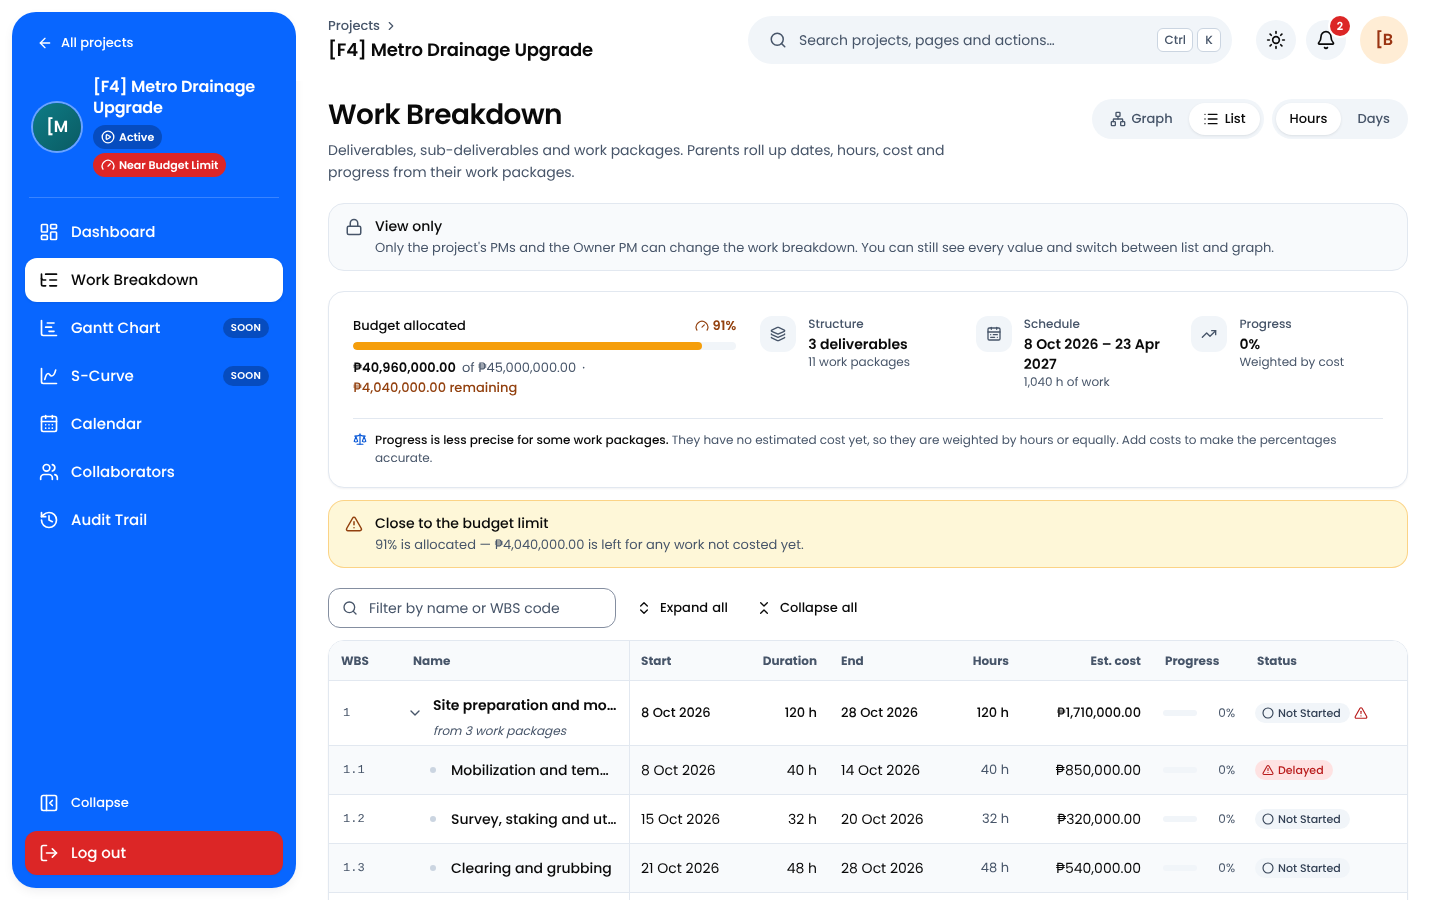
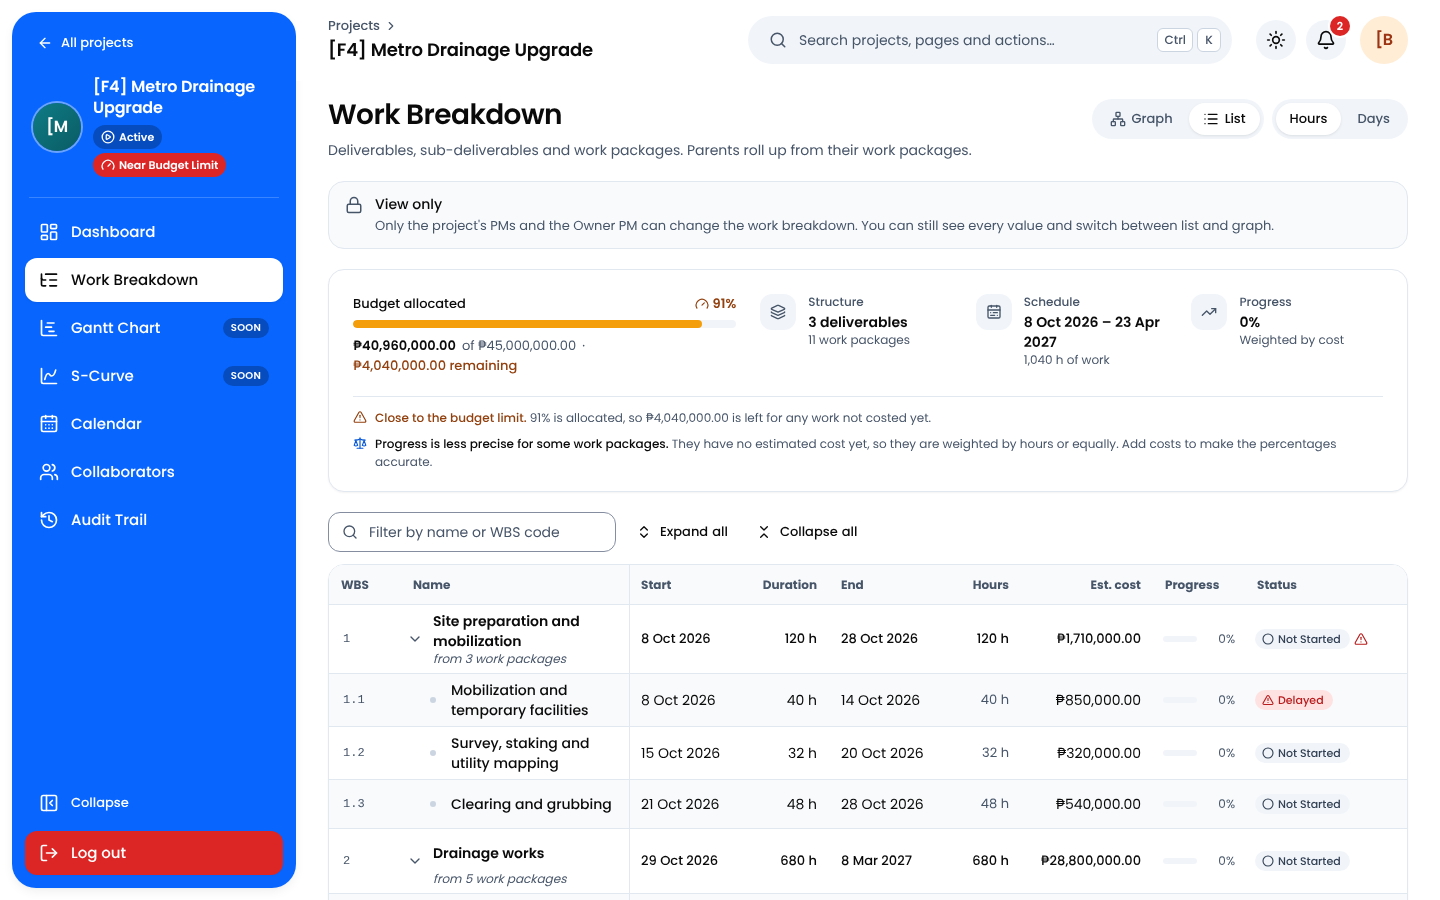
wip(wbs): work-package labels for level-2 leaves, floating inline errors
Claude-Session: https://claude.ai/code/session_01DGeuhvciUu1fM9mH6rpkC6

diff --git a/e2e/f4-zz-tmp.spec.ts b/e2e/f4-zz-tmp.spec.ts
@@ -1,0 +1,49 @@
+import { expect, test } from "@playwright/test";
+import { loginAs } from "./helpers/auth";
+import { F4_OWNER, ensureF4Tenant } from "./f4-tenant";
+const OUT = "/tmp/claude-0/-home-user/321de8e6-1b80-50a5-8310-7294642e121d/scratchpad/";
+for (const scheme of ["light", "dark"] as const) {
+  test(`states ${scheme}`, async ({ browser }) => {
+    const t = await ensureF4Tenant();
+    const context = await browser.newContext({ viewport: { width: 1440, height: 900 }, colorScheme: scheme });
+    await loginAs(context, F4_OWNER);
+    const page = await context.newPage();
+    await page.goto(`/projects/${t.showcaseId}/wbs`);
+    await page.evaluate(() => localStorage.setItem("civpms.wbs.view", "list"));
+    await page.reload();
+    const row = (c: string) => page.locator(`[data-testid=wbs-row][data-wbs-code="${c}"]`);
+    await row("1.1").getByRole("button", { name: /^Actions for/ }).click();
+    await page.screenshot({ path: OUT + `s-menu-${scheme}.png` });
+    await page.getByRole("menuitem", { name: /Add sub-deliverable|Add work package/ }).first().click();
+    await page.waitForTimeout(400);
+    await page.screenshot({ path: OUT + `s-dialog-${scheme}.png` });
+    await page.keyboard.press("Escape");
+    await row("2").getByRole("button", { name: /^Actions for/ }).click();
+    await page.getByRole("menuitem", { name: /Delete deliverable/ }).click();
+    await page.waitForTimeout(400);
+    await page.screenshot({ path: OUT + `s-delete-${scheme}.png` });
+    await page.getByRole("alertdialog").getByRole("button", { name: "Cancel" }).click();
+    await row("1.2").getByRole("button", { name: /^Duration of/ }).click();
+    await page.keyboard.type("abc");
+    await page.keyboard.press("Enter");
+    await page.waitForTimeout(300);
+    await page.screenshot({ path: OUT + `s-inline-${scheme}.png` });
+    await page.keyboard.press("Escape");
+    await page.getByRole("button", { name: /Recently deleted/ }).click();
+    await page.waitForTimeout(400);
+    await page.screenshot({ path: OUT + `s-trash-${scheme}.png` });
+    await page.keyboard.press("Escape");
+    await page.goto(`/projects/${t.showcaseId}/calendar`);
+    await page.locator('[data-testid=calendar-month] button[data-date="2026-10-21"]').click({ button: "right" });
+    await page.waitForTimeout(300);
+    await page.screenshot({ path: OUT + `s-day-${scheme}.png` });
+    await page.getByTestId("calendar-day-panel").getByRole("button", { name: "Mark as non-working day" }).click();
+    await page.getByRole("button", { name: "Save changes" }).click();
+    await expect(page.getByRole("alertdialog")).toBeVisible();
+    await page.waitForTimeout(400);
+    await page.screenshot({ path: OUT + `s-moves-${scheme}.png` });
+    await page.getByRole("alertdialog").getByRole("button", { name: "Cancel" }).click();
+    await page.getByRole("button", { name: "Discard" }).click();
+    await context.close();
+  });
+}

diff --git a/src/components/wbs/wbs-table.tsx b/src/components/wbs/wbs-table.tsx
@@ -40,7 +40,7 @@ import {
 } from "@/lib/domain";
 import { cn } from "@/lib/utils";
 import { CostCell, DateCell, DurationCell, TextCell } from "./inline-edit";
-import { getProjection, type Projection } from "./model";
+import { getProjection, nodeLabel, type Projection } from "./model";
 import { RowActions } from "./row-actions";
 import type { RollupMap, WbsNode } from "./types";
 import { useWbs } from "./wbs-context";
@@ -164,18 +164,19 @@ export function WbsTable({ roots, rollups, collapsed, filter, busyIds, onMove }:
         data-testid="wbs-table"
         className="relative w-full overflow-auto rounded-lg border border-border bg-surface shadow-xs sm:max-h-[calc(100dvh-12rem)] sm:min-h-64"
       >
-        <table className="w-full min-w-[72rem] table-fixed border-separate border-spacing-0 text-sm lg:min-w-[67.5rem]">
+        <table className="w-full min-w-[69.75rem] table-fixed border-separate border-spacing-0 text-sm sm:min-w-[72rem] lg:min-w-[67.5rem]">
           <caption className="sr-only">
             Work breakdown: deliverables, sub-deliverables and work packages with dates, duration, hours, cost and
             progress. Parents roll up from their work packages.
           </caption>
           <colgroup>
             <col className="w-[4.5rem]" />
-            <col />
+            {/* Phones: WBS + Name fill the screen (the summary line under the name shows the rest). */}
+            <col className="w-[16.5rem] sm:w-auto" />
             <col className="w-[7rem]" />
-            <col className="w-[5.5rem]" />
+            <col className="w-[6rem]" />
             <col className="w-[7rem]" />
-            <col className="w-[5rem]" />
+            <col className="w-[4.5rem]" />
             <col className="w-[8.25rem]" />
             <col className="w-[5.75rem]" />
             <col className="w-[7.5rem]" />
@@ -305,7 +306,7 @@ const WbsRow = memo(function WbsRow({
       : null;
   const code = `${node.wbsCode} ${node.name}`;
   const derivedDelayed = isLeaf && r?.hasDelayed && node.status !== "delayed";
-  const levelText = isLeaf && node.level > 1 ? "Work package" : levelLabel(node.level);
+  const levelText = nodeLabel(node);
   // Phones see only the first columns without scrolling, so repeat the key values under the name.
   const mobileSummary = r
     ? [
@@ -410,7 +411,7 @@ const WbsRow = memo(function WbsRow({
               </span>
             ) : null}
             {mobileSummary ? (
-              <span className="truncate text-xs leading-4 text-muted-foreground tabular-nums sm:hidden">
+              <span className="text-xs leading-4 text-pretty text-muted-foreground tabular-nums sm:hidden">
                 {mobileSummary}
               </span>
             ) : null}

diff --git a/src/components/wbs/inline-edit.tsx b/src/components/wbs/inline-edit.tsx
@@ -45,9 +45,17 @@ function CellButton({ label, children, align = "left", disabled, onOpen, classNa
   );
 }
 
-function ErrorText({ id, children }: { id: string; children: React.ReactNode }) {
+/** Floats under the editor so a long message never squeezes the table column. */
+function ErrorText({ id, align = "left", children }: { id: string; align?: "left" | "right"; children: React.ReactNode }) {
   return (
-    <p id={id} role="alert" className="mt-1 max-w-64 text-left text-xs leading-4 font-medium whitespace-normal text-danger-text">
+    <p
+      id={id}
+      role="alert"
+      className={cn(
+        "absolute top-full z-30 mt-1 w-60 rounded-md border border-danger/30 bg-surface px-2.5 py-1.5 text-left text-xs leading-4 font-medium whitespace-normal text-danger-text shadow-popover",
+        align === "right" ? "right-0" : "left-0",
+      )}
+    >
       {children}
     </p>
   );
@@ -122,7 +130,7 @@ export function TextCell({
   return (
     <div ref={wrapperRef} className="min-w-0 flex-1">
       {editing ? (
-        <div>
+        <div className="relative">
           <Input
             autoFocus
             defaultValue={value}
@@ -191,7 +199,7 @@ export function DateCell({
   return (
     <div ref={wrapperRef}>
       {editing ? (
-        <div>
+        <div className="relative">
           <DateInput
             autoFocus
             value={draft}
@@ -283,7 +291,7 @@ export function DurationCell({
   return (
     <div ref={wrapperRef} className="flex justify-end">
       {editing ? (
-        <div className="flex flex-col items-end">
+        <div className="relative flex flex-col items-end">
           <Input
             autoFocus
             defaultValue={initial}
@@ -292,7 +300,7 @@ export function DurationCell({
             invalid={Boolean(error)}
             aria-describedby={error ? errorId : undefined}
             trailing={<span className="text-xs font-medium text-muted-foreground">{unit === "days" ? "d" : "h"}</span>}
-            wrapperClassName="w-24"
+            wrapperClassName="w-[5.25rem]"
             className="h-9 pr-8 text-right tabular-nums sm:h-9"
             onFocus={(event) => event.currentTarget.select()}
             onKeyDown={(event) => {
@@ -308,7 +316,7 @@ export function DurationCell({
             }}
             onBlur={(event) => commit(event.currentTarget.value, false)}
           />
-          {error ? <ErrorText id={errorId}>{error}</ErrorText> : null}
+          {error ? <ErrorText id={errorId} align="right">{error}</ErrorText> : null}
         </div>
       ) : (
         <CellButton label={label} disabled={disabled} onOpen={open} align="right">

diff --git a/src/components/wbs/activity-dialog.tsx b/src/components/wbs/activity-dialog.tsx
@@ -25,16 +25,16 @@ import {
   formatDate,
   formatDuration,
   formatPeso,
-  levelLabel,
   parseDurationInput,
   type DurationUnit,
 } from "@/lib/domain";
+import { nodeLabel } from "./model";
 import { Notice } from "./notice";
 import type { WbsNode } from "./types";
 import type { CreateValues } from "./use-wbs-controller";
 
 export type ActivityDialogMode =
-  | { kind: "create"; parent: WbsNode | null; index?: number | null }
+  | { kind: "create"; parent: WbsNode | null; index?: number | null; /** "Work package" when adding next to one. */ label?: string }
   | { kind: "rename"; node: WbsNode };
 
 export type ActivityDialogProps = {
@@ -78,9 +78,9 @@ function modeKey(mode: ActivityDialogMode): string {
 }
 
 function dialogTitle(mode: ActivityDialogMode): string {
-  if (mode.kind === "rename") return `Rename ${levelLabel(mode.node.level).toLowerCase()}`;
+  if (mode.kind === "rename") return `Rename ${nodeLabel(mode.node).toLowerCase()}`;
   if (!mode.parent) return "Add deliverable";
-  return `Add ${(childLevelLabel(mode.parent.level) ?? "work package").toLowerCase()}`;
+  return `Add ${(mode.label ?? childLevelLabel(mode.parent.level) ?? "work package").toLowerCase()}`;
 }
 
 function dialogDescription(mode: ActivityDialogMode): string {
@@ -101,7 +101,9 @@ function ActivityForm({
   const isRename = mode.kind === "rename";
   const parent = mode.kind === "create" ? mode.parent : null;
   const parentHasValues = parent ? hasOwnValues(parent) : false;
-  const childLabel = parent ? (childLevelLabel(parent.level) ?? "Work package") : "Deliverable";
+  const childLabel = parent
+    ? ((mode.kind === "create" ? mode.label : undefined) ?? childLevelLabel(parent.level) ?? "Work package")
+    : "Deliverable";
 
   const [name, setName] = useState(isRename ? mode.node.name : "");
   // Empty by default so an item without a schedule doesn't get a stray start date; a duration

diff --git a/src/components/wbs/use-wbs-controller.ts b/src/components/wbs/use-wbs-controller.ts
@@ -13,7 +13,6 @@ import {
   buildTree,
   describeDeleteImpact,
   formatPeso,
-  levelLabel,
   pluralize,
   projectRollup,
   type CalendarIndex,
@@ -27,7 +26,7 @@ import {
   updateActivity,
   type UpdateActivityInput,
 } from "@/server/actions/wbs";
-import { applyMove, indexAmongSiblings, resolveLeafSchedule, type SchedulePatch } from "./model";
+import { applyMove, indexAmongSiblings, nodeLabel, resolveLeafSchedule, type SchedulePatch } from "./model";
 import type { WbsActivity, WbsNode, WbsProjectInfo } from "./types";
 
 export type ActivityPatch = NonNullable<UpdateActivityInput["patch"]>;
@@ -207,7 +206,7 @@ export function useWbsController({
           : prev;
         return applyMove([...withoutParentValues, activity], activity.id, activity.parentId, values.index ?? null);
       });
-      toast.success(`${levelLabel(activity.level)} added`, {
+      toast.success(`${nodeLabel({ level: activity.level, children: [] })} added`, {
         description: result.data.carried
           ? `${activity.wbsCode} ${activity.name} now carries the cost, hours and dates.`
           : `${activity.wbsCode} ${activity.name}`,
@@ -272,7 +271,7 @@ export function useWbsController({
   const remove = useCallback(
     async (node: WbsNode) => {
       const impact = describeDeleteImpact(node);
-      const label = levelLabel(node.level).toLowerCase();
+      const label = nodeLabel(node).toLowerCase();
       const ok = await confirm({
         title: `Delete "${node.wbsCode} ${node.name}"?`,
         description: `${impact}. You can restore it from "Recently deleted" for 30 days.`,

diff --git a/src/components/wbs/row-actions.tsx b/src/components/wbs/row-actions.tsx
@@ -19,7 +19,8 @@ import {
   DropdownMenuTrigger,
   IconButton,
 } from "@/components/ui";
-import { childLevelLabel, levelLabel } from "@/lib/domain";
+import { childLevelLabel } from "@/lib/domain";
+import { nodeLabel } from "./model";
 import { cn } from "@/lib/utils";
 import { useWbs, type MoveCommand } from "./wbs-context";
 import type { WbsNode } from "./types";
@@ -36,7 +37,7 @@ export function RowActions({ node, className, size = "sm" }: { node: WbsNode; cl
   const wbs = useWbs();
   if (!wbs.canEdit) return null;
   const childLabel = childLevelLabel(node.level);
-  const ownLabel = levelLabel(node.level);
+  const ownLabel = nodeLabel(node);
   const availability = wbs.moveAvailability(node);
 
   return (
@@ -80,7 +81,7 @@ export function RowActions({ node, className, size = "sm" }: { node: WbsNode; cl
               {item.icon}
               <span className="flex min-w-0 flex-col">
                 <span>{item.label}</span>
-                {!state.ok ? <span className="truncate text-xs text-muted-foreground">{state.reason}</span> : null}
+                {!state.ok ? <span className="text-xs text-pretty text-muted-foreground">{state.reason}</span> : null}
               </span>
             </DropdownMenuItem>
           );

diff --git a/src/components/wbs/model.test.ts b/src/components/wbs/model.test.ts
@@ -1,6 +1,6 @@
 import { describe, expect, it } from "vitest";
 import { createCalendarIndex, DEFAULT_WORKING_CALENDAR } from "@/lib/domain";
-import { applyMove, buildSampleStructure, getProjection, indexAmongSiblings, resolveLeafSchedule } from "./model";
+import { applyMove, buildSampleStructure, getProjection, indexAmongSiblings, nodeLabel, resolveLeafSchedule } from "./model";
 
 const index = createCalendarIndex({ ...DEFAULT_WORKING_CALENDAR, holidays: [], overrides: [] });
 
@@ -92,5 +92,14 @@ describe("buildSampleStructure", () => {
     expect(first).toMatchObject({ startDate: "2026-10-19", durationHours: 40, endDate: "2026-10-23" });
     expect(sample[0]!.workPackages[1]!.startDate).toBe("2026-10-26");
     expect(buildSampleStructure(index, "nope")).toEqual([]);
+  });
+});
+
+describe("nodeLabel", () => {
+  it("calls leaves below the top level work packages", () => {
+    expect(nodeLabel({ level: 1, children: [] })).toBe("Deliverable");
+    expect(nodeLabel({ level: 2, children: [] })).toBe("Work package");
+    expect(nodeLabel({ level: 2, children: [{}] })).toBe("Sub-deliverable");
+    expect(nodeLabel({ level: 3, children: [] })).toBe("Work package");
   });
 });

diff --git a/src/components/wbs/wbs-graph.tsx b/src/components/wbs/wbs-graph.tsx
@@ -28,13 +28,13 @@ import {
   formatDuration,
   formatPercent,
   formatPeso,
-  levelLabel,
   pluralize,
   type ActivityStatus,
   type Rollup,
 } from "@/lib/domain";
 import { cn } from "@/lib/utils";
 import { GRAPH_NODE, layoutTree, type LayoutInput } from "./graph-layout";
+import { nodeLabel } from "./model";
 import { RowActions } from "./row-actions";
 import type { RollupMap, WbsNode } from "./types";
 import { useWbs } from "./wbs-context";
@@ -349,7 +349,7 @@ function ActivityCard({ data }: NodeProps<Node<ActivityNodeData, "activity">>) {
           <span className="flex items-center gap-1.5 text-[11px] leading-4 text-muted-foreground">
             <span className="font-mono font-medium tabular-nums">{node.wbsCode}</span>
             <span aria-hidden>·</span>
-            <span className="truncate">{isLeaf && node.level > 1 ? "Work package" : levelLabel(node.level)}</span>
+            <span className="truncate">{nodeLabel(node)}</span>
             <span aria-hidden>·</span>
             <span className="shrink-0 tabular-nums">
               {formatDuration(rollup?.hours ?? node.durationHours ?? 0, wbs.unit, wbs.hoursPerDay)}

diff --git a/src/components/wbs/model.ts b/src/components/wbs/model.ts
@@ -11,6 +11,7 @@ import {
   durationHoursFromDates,
   formatDate,
   isValidISODate,
+  levelLabel,
   nextWorkingDay,
   type CalendarIndex,
   type ISODate,
@@ -259,4 +260,16 @@ export function buildSampleStructure(index: CalendarIndex, projectStart: ISODate
       return { name: pkg.name, startDate, durationHours, endDate };
     }),
   }));
+}
+
+// ---------------------------------------------------------------------------
+// Labels
+// ---------------------------------------------------------------------------
+
+/**
+ * What an item is called on screen: a leaf below the top level is a work package (it carries the
+ * schedule and cost), even at level 2; parents use their level's name (D22).
+ */
+export function nodeLabel(node: { level: number; children: ReadonlyArray<unknown> }): string {
+  return node.children.length === 0 && node.level > 1 ? "Work package" : levelLabel(node.level);
 }

diff --git a/src/components/wbs/wbs-workspace.tsx b/src/components/wbs/wbs-workspace.tsx
@@ -21,7 +21,7 @@ import {
 import { setDurationUnit } from "@/server/actions/wbs";
 import { ActivityDialog, type ActivityDialogMode } from "./activity-dialog";
 import { BudgetPanel } from "./budget-panel";
-import { indexAmongSiblings } from "./model";
+import { indexAmongSiblings, nodeLabel } from "./model";
 import { Notice } from "./notice";
 import { TrashSheet } from "./trash-sheet";
 import type { WbsNode, WbsView, WbsWorkspaceProps } from "./types";
@@ -214,6 +214,7 @@ export function WbsWorkspace({
           kind: "create",
           parent: node.parentId ? findNode(roots, node.parentId) : null,
           index: indexAmongSiblings(records, node.id) + 1,
+          label: node.parentId ? nodeLabel(node) : undefined,
         }),
       rename: (node) => setDialog({ kind: "rename", node }),
       remove: (node) => void remove(node),
